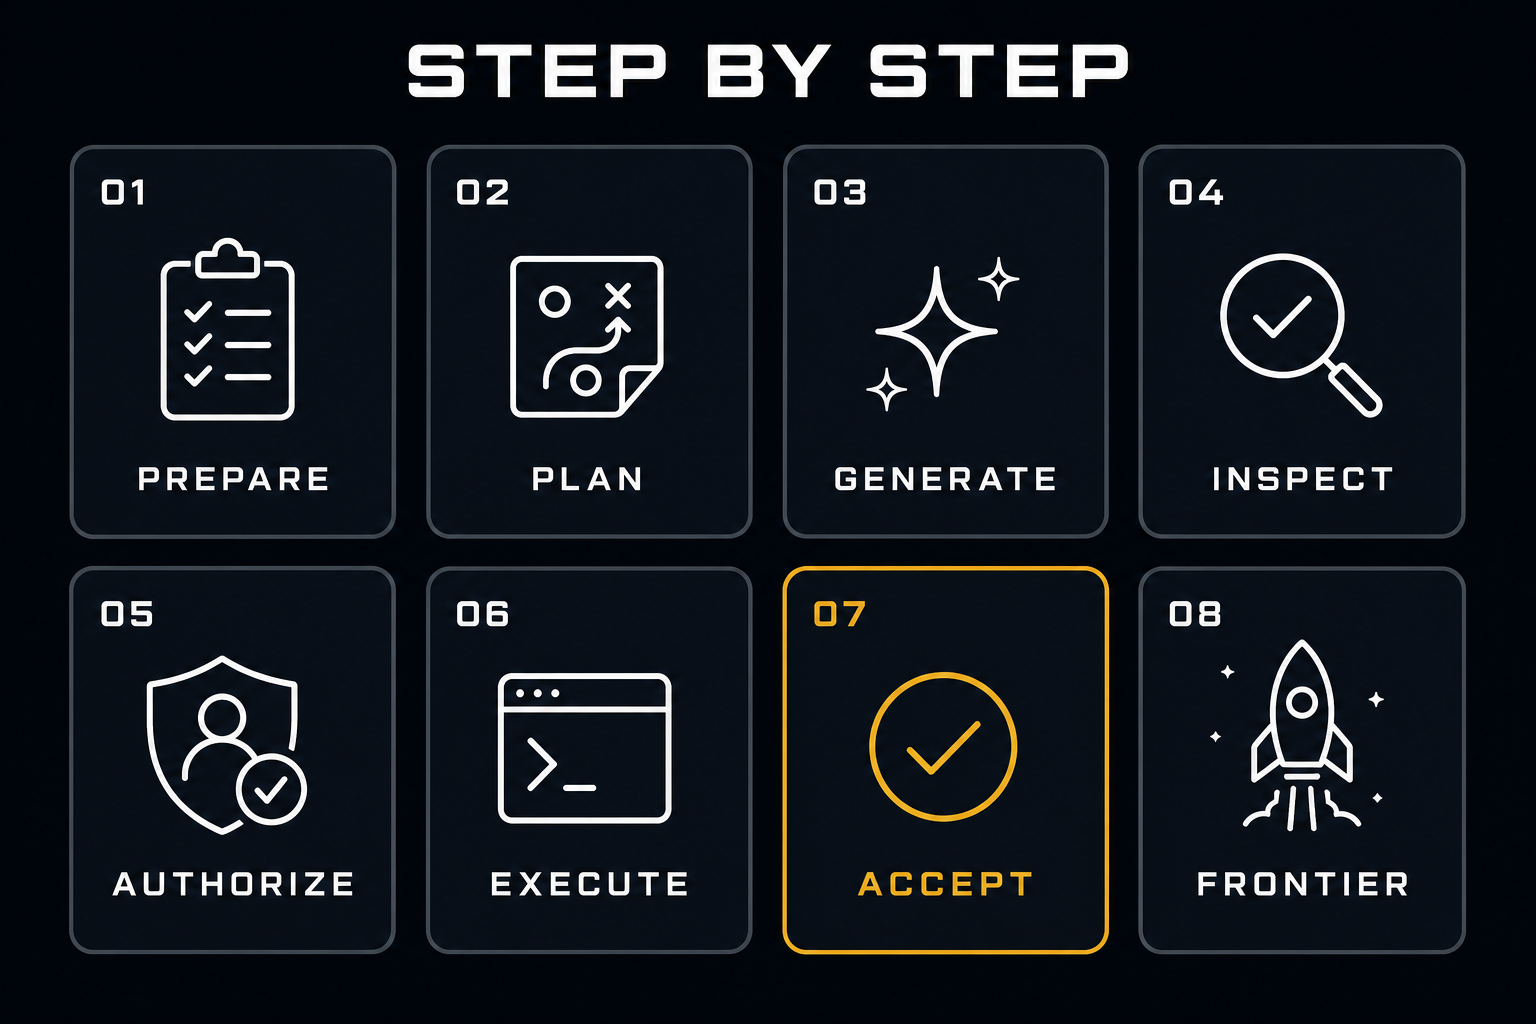
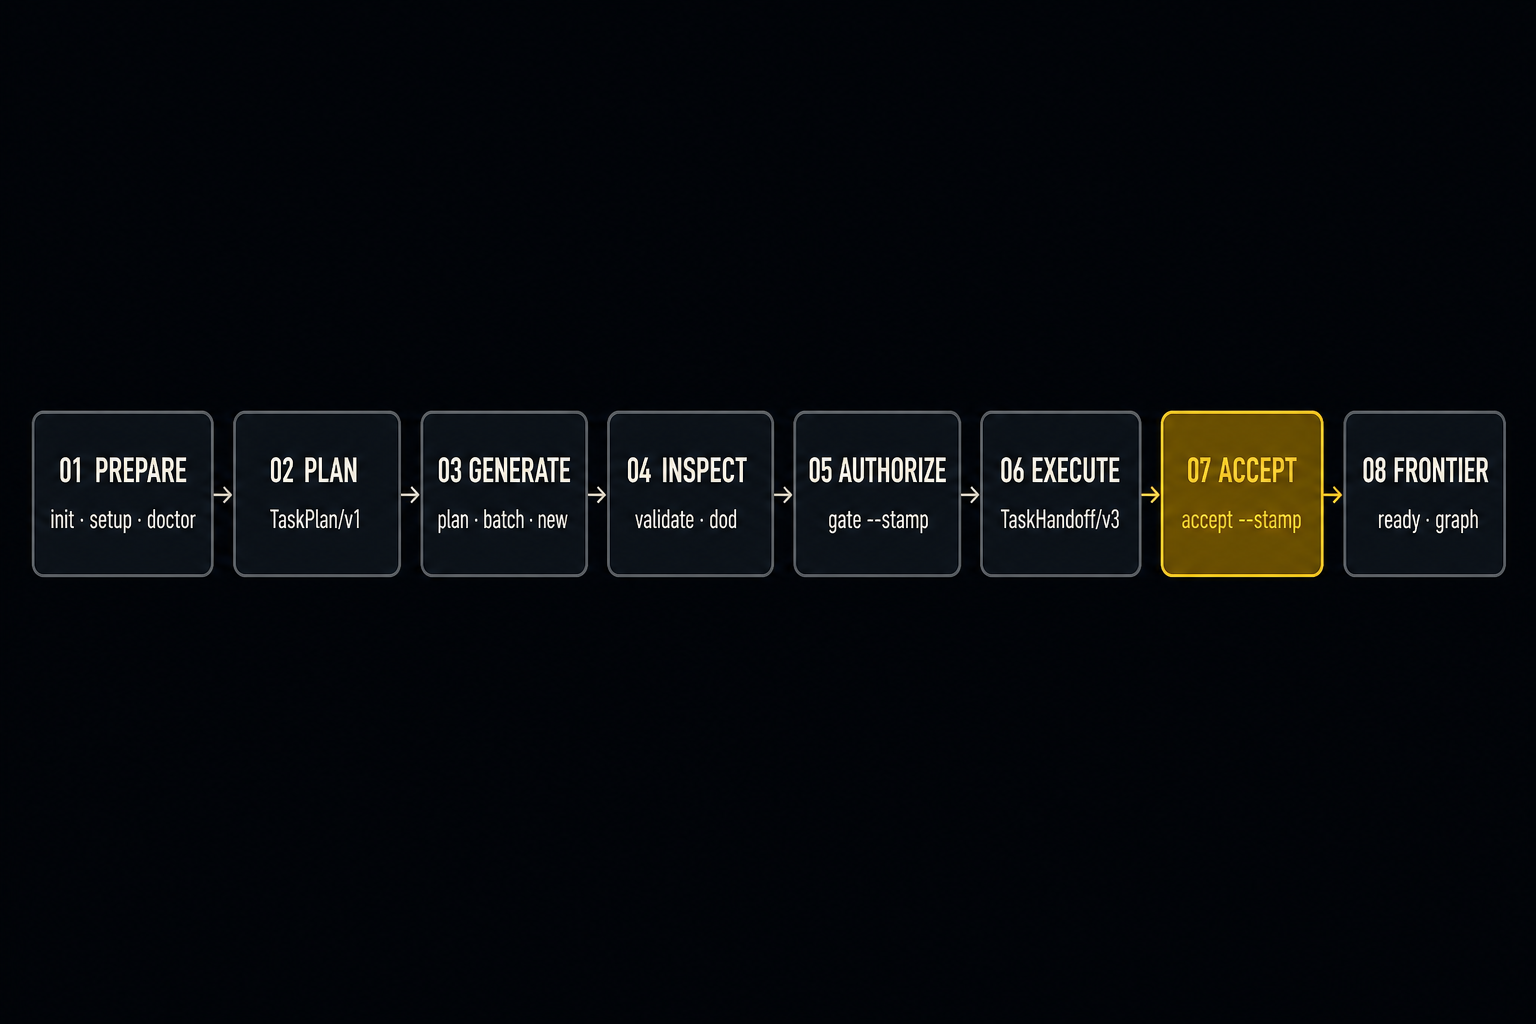
docs: one step plate, drop Visual identity
- Replace 2x4 icon grid PNG with horizontal station-style step image
- Remove old SVG step-by-step file (no longer referenced)
- Update alt text to: TASK-SPEC eight-step path: prepare, plan, generate, inspect, authorize, execute, accept, frontier
- Remove Visual identity section (brand lives in the kit)

PR 20 left the old SVG and Visual identity on main.

diff --git a/README.md b/README.md
@@ -242,9 +242,7 @@ Everything below happens inside the repository you want to change. The first
 task should be XS or S and supervised. Calibrate eval quality before increasing
 autonomy.
 
-![Eight explicit steps from an empty repository to one independently accepted atomic task](assets/task-spec-step-by-step.svg)
-
-![Eight explicit steps from an empty repository to one independently accepted atomic task](assets/task-spec-step-by-step.png)
+![TASK-SPEC eight-step path: prepare, plan, generate, inspect, authorize, execute, accept, frontier](assets/task-spec-step-by-step.png)
 
 ### 1. Prepare the repository
 
@@ -474,28 +472,6 @@ Executed proof: `tests/test-v36-experience.sh` (agent-context) and
 From a source checkout, `make check` is the single local and normal-CI
 boundary. It ends with `CHECK=READY` only when doctor, documentation lint,
 every self-test, the isolated demo, and conformance are green.
-
-## Visual identity
-
-TASK-SPEC uses the **Receipt Gate** mark: two gate posts (PRE / POST) framing a
-compact three-line receipt. The last line is Proof Gold `#E4A51A`, the verdict.
-The hyphen in TASK-SPEC is always Proof Gold. The 16:9 social lockup is `assets/task-spec-og.png`.
-
-![TASK-SPEC Receipt Gate icon](assets/task-spec-icon.png)
-![TASK-SPEC lockup for dark backgrounds](assets/task-spec-lockup-light.png)
-![TASK-SPEC lockup for light backgrounds](assets/task-spec-lockup-dark.png)
-
-| Token | Hex | Usage |
-|---|---|---|
-| Factory Black | `#070A0F` | Primary background |
-| Carbon | `#111720` | Card backgrounds |
-| Graphite | `#29313A` | Borders, dividers |
-| Proof Ivory | `#F5F2EA` | Primary text, gate posts, receipt lines |
-| Proof Gold | `#E4A51A` | Verdict line and hyphen accent only |
-| Clean White | `#FFFFFF` | High-contrast text |
-
-Never use Forge Gold, Register Blue, Gate Ember, Ion Violet, or Keep Rose as
-product accents.
 
 ## Contributing
 
